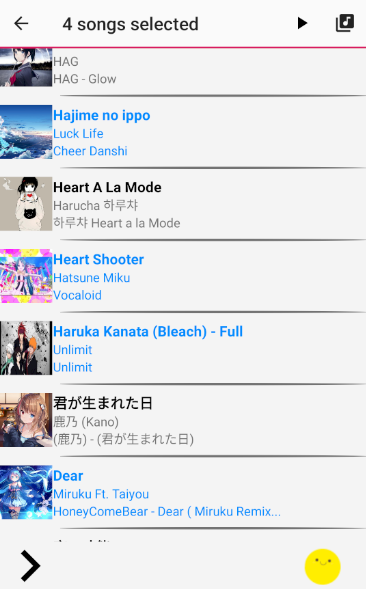
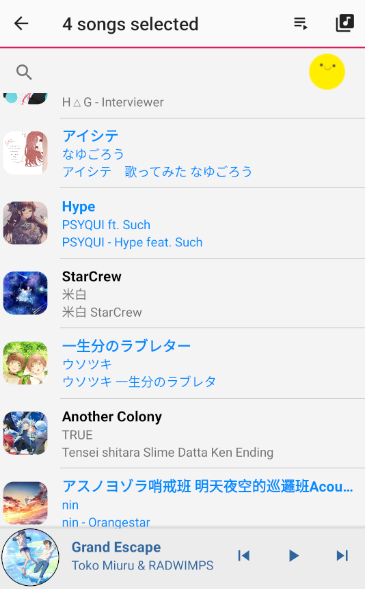
updated readme.md

Changed region(s): [[0.0, 0.0306, 1.0, 1.0]]

diff --git a/readme.md b/readme.md
@@ -1,20 +1,19 @@
 # Music Player
+- Slideup panel UI
 - Finds audio files from all storages on the Android device
 - Can be played from notifications menu
 - Audio focus supported
 - Uses color palettes from the album art
 - Light mode and Dark mode themes
 - Easily accessible audio file details
-- Create personalized queues and playlists
+- Search for songs
+- Create personalized queues
 
 ## Notification Menu
 ![Notification](./app/src/main/Screenshots/notificationmenu.png "Notification Menu")
 
 ## Main Display
-![Main Activity](./app/src/main/Screenshots/mainactivity.png "Main Activity")
-
-## Main Display Expanded
-![Main Activity Expanded](./app/src/main/Screenshots/mainactivity_expanded.png "Main Activity Expanded")
+![Main Activity Expanded](./app/src/main/Screenshots/maindisplay.png "Main Activity Expanded")
 
 ## Music Details
 ![Music Details](./app/src/main/Screenshots/musicdetails.png "Music Details")
@@ -25,5 +24,8 @@
 ## Light Mode
 ![Light Mode](./app/src/main/Screenshots/lightmode.png "List View and Main Activity Light Mode")
 
-## Queue/Playlist Selection Mode
+## Search Filter
+![Search Filter](./app/src/main/Screenshots/searchfilter.png "Searching for songs containing the word 'nightcore'")
+
+## Queue Selection Mode
 ![Selection Mode](./app/src/main/Screenshots/actionmode.png "Queue and Playlist Selection Mode")
